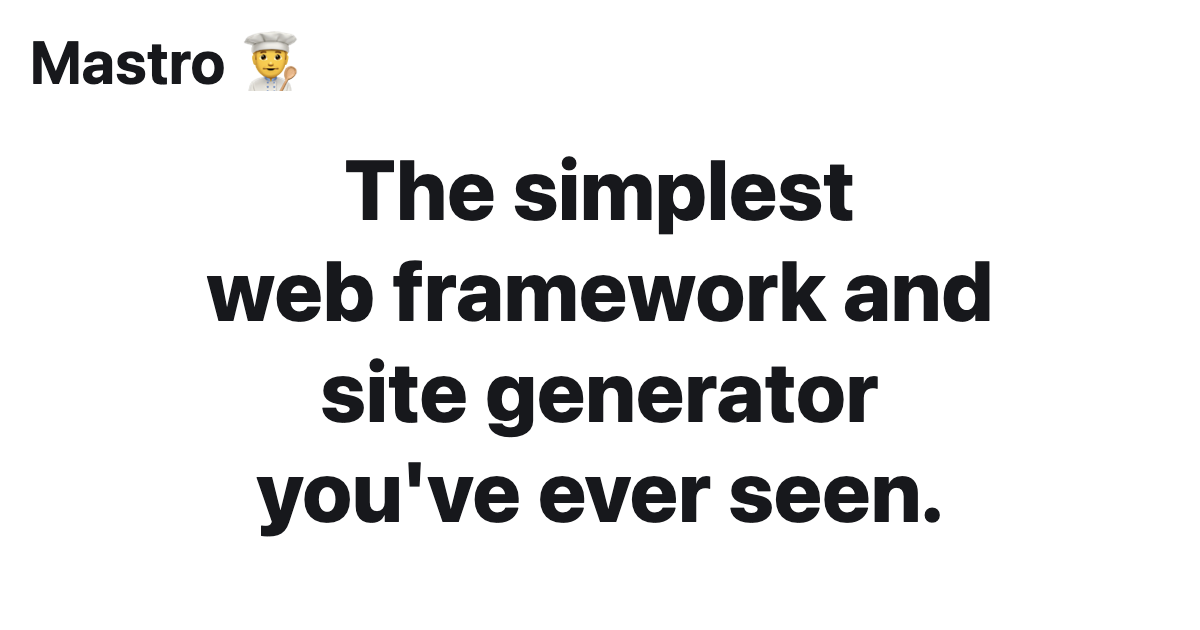
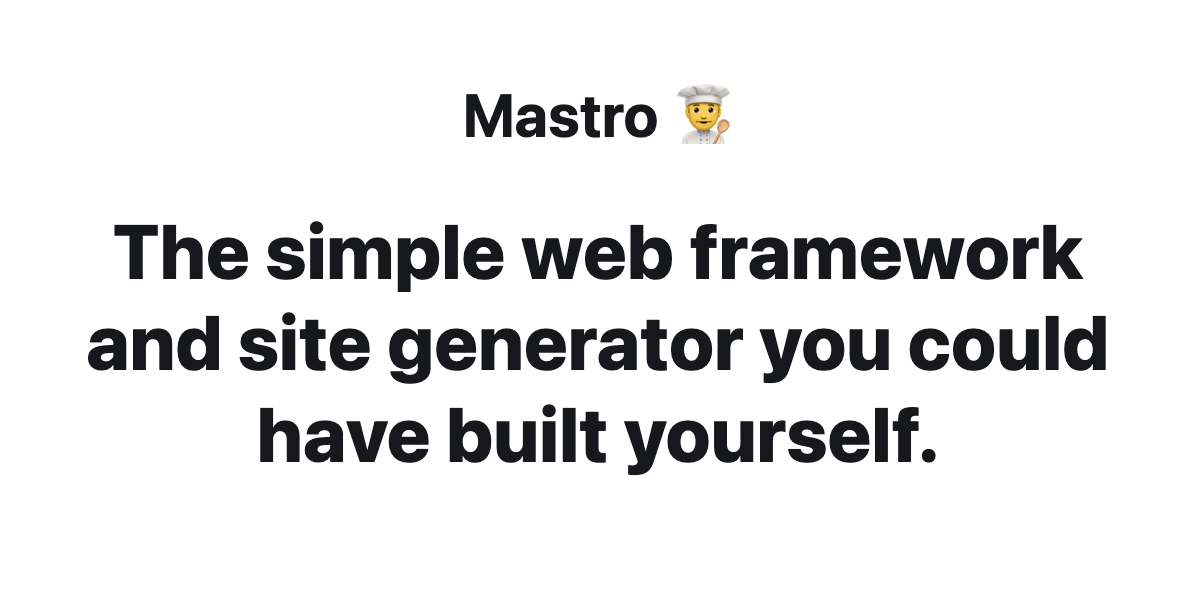
Homepage: new tagline

Changed region(s): [[0.0617, 0.12, 0.925, 0.87], [0.0, 0.03, 0.2467, 0.15]]

diff --git a/data/index.md b/data/index.md
@@ -1,21 +1,21 @@
 ---
-title: The simplest web framework and site generator you've ever seen.
+title: The simple web framework and site generator you could have built yourself.
 metaTitle: 'Mastro: the simplest web framework and site generator'
 description: 'No bloat, no magic, no config. Mastro gets out of the way, so that you can focus on building awesome websites.'
 layout: hero
 ---
 
-Static site generation and on-demand rendering of HTML or JSON – it all works exactly the same in Mastro: a file-based [router](/guide/server-side-components-and-routing/#routing-and-page-handlers), and a handful of [composable functions](https://jsr.io/@mastrojs/mastro/doc) to return standard [Response](https://developer.mozilla.org/en-US/docs/Web/API/Response/Response) objects.
-No magic, no config – just focus on building awesome websites.
+But since you didn't, take Mastro as a starting point. It fills in the few missing pieces that aren't built into modern browsers and JavaScript runtimes:
+a file-based [router](/guide/server-side-components-and-routing/#routing-and-page-handlers), and a handful of [composable functions](https://jsr.io/@mastrojs/mastro/doc) to return standard [Response](https://developer.mozilla.org/en-US/docs/Web/API/Response/Response) objects. Static site generation and on-demand rendering of HTML or JSON – it all works exactly the same in Mastro.
+Not compromising on developer experience, Mastro feels like a framework – but actually it's just a tiny library.
 
-- **No bloat**: written in just [~700 lines](https://github.com/mastrojs/mastro/tree/main/src#readme) of TypeScript, Mastro is a framework distilled to its essence.
+- **No bloat**: written in just [~700 lines](https://github.com/mastrojs/mastro/tree/main/src#readme) of TypeScript, Mastro is distilled to the essence.
 - **No client-side JavaScript** (until you [add some](/guide/interactivity-with-javascript-in-the-browser/)): create [MPA](/guide/client-side-vs-server-side-javascript-static-vs-ondemand-spa-vs-mpa/) websites that load blazingly [fast](#fast-for-everyone).
 - **No bundler** (until you [add one](/guide/bundling-assets-caching/)): your code arrives in the browser exactly how you wrote it.
 - **No magic**: use normal `<img>` and `<a>` tags referencing HTTP-first [assets](/guide/bundling-assets-caching/#transforming-images).
-- **No VC-money**: this forces us to stay lean and prevents eventual enshitification.
-- **No hosting offer**: selling a service is not what we're interested in.
-- **No update treadmill**: we use web standards instead of relying on many [dependencies](https://jsr.io/@mastrojs/mastro/dependencies).
-- **No lock-in**: if you don't like some aspect of Mastro, just fork the code – it's only [~700 lines](https://github.com/mastrojs/mastro/tree/main/src#readme) after all.
+- **No VC-money**: no eventual enshitification – selling a service is not what we're interested in.
+- **No update treadmill**: we use web standards instead of relying on complex [dependencies](https://jsr.io/@mastrojs/mastro/dependencies).
+- **No lock-in**: swap out calls to the Mastro library later on. Or fork it – it's only [~700 lines](https://github.com/mastrojs/mastro/tree/main/src#readme) after all.
 
 <a class="button" href="https://github.dev/mastrojs/template-basic">Try online with GitHub</a>
 <a class="button -secondary" href="#experienced-developers-–-do-you-want-off-the-frontend-treadmill%3F">Install with Deno, Node.js or Bun</a>
@@ -88,7 +88,7 @@ export const Layout = (props: Props) =>
 </details>
 </div>
 
-Want to see more? Have a look at some [small examples](https://github.com/mastrojs/mastro/tree/main/examples/), or the [source of this website](https://github.com/mastrojs/mastrojs.github.io).
+Want to see more? Have a look at some [examples](https://github.com/mastrojs/mastro/tree/main/examples/), or the [source of this website](https://github.com/mastrojs/mastrojs.github.io).
 
 
 ## Easy for beginners – no installation needed
@@ -101,9 +101,9 @@ With Mastro, there is very little to learn – except for the web standards HTML
 
 ## Experienced developers – do you want off the frontend treadmill?
 
-I've seen things you people wouldn't believe. Megabytes of JavaScript on fire in the browser. I watched towers of hard to debug abstractions collapse upon themselves. All those moments will be lost in time, like tears in rain. Time to let them die.
+I've seen things you people wouldn't believe. Megabytes of JavaScript on fire in the browser. I watched towers of complex abstractions collapse upon themselves. All those codebases will be lost in time, like tears in rain. Time to let them die.
 
-There are [various way to run Mastro](/guide/cli-install/). If you're unsure which runtime to pick, we recommend [Deno](https://deno.com). For Node.js, [`pnpm`](https://pnpm.io/) is [recommended](https://jsr.io/docs/npm-compatibility) (although `npm` and `yarn` also work).
+There are [various way to run Mastro](/guide/cli-install/). If you're unsure which runtime to pick, we recommend [Deno](https://deno.com). For Node.js, `pnpm` is [recommended](https://jsr.io/docs/npm-compatibility), although `npm` and `yarn` also work.
 
 <div class="col3">
 
